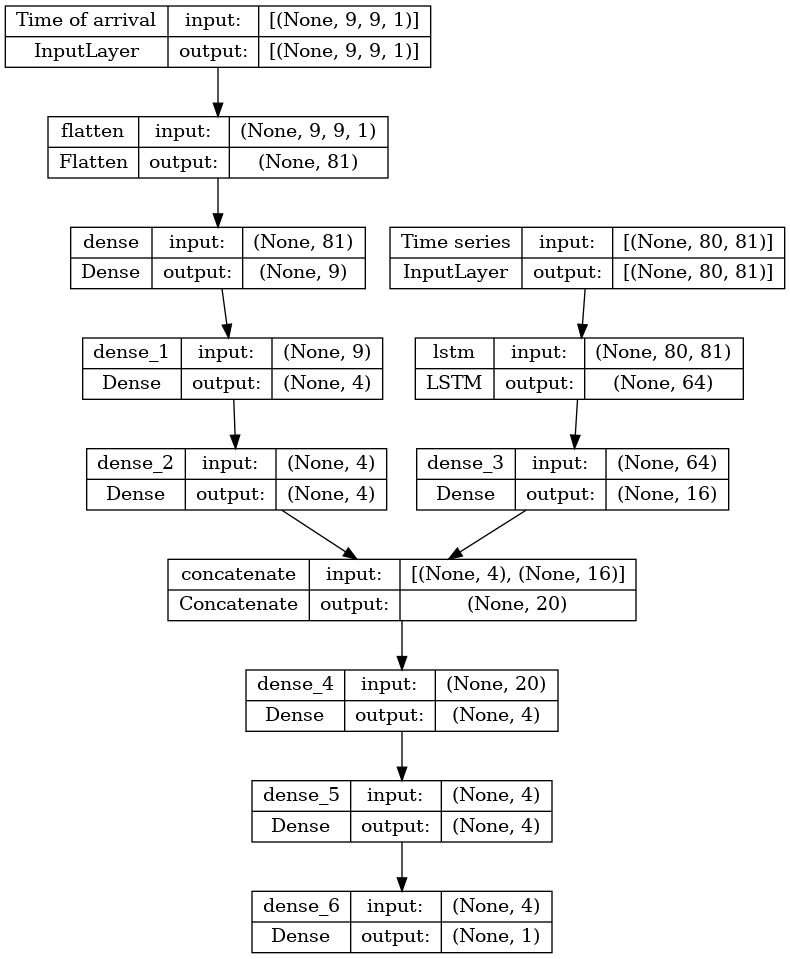
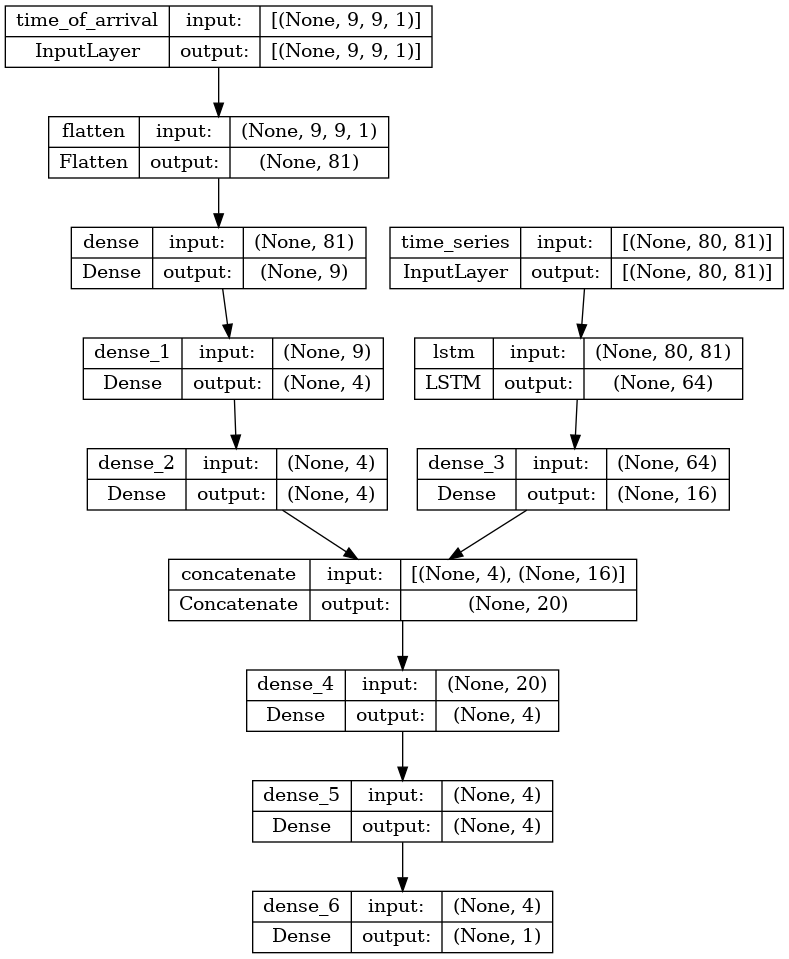
Functioning 5% lstm+encoder

diff --git a/cloudatlas/lstm_encoder.py b/cloudatlas/lstm_encoder.py
@@ -17,7 +17,7 @@ from rich.progress import track
 from rich import print
 
 # Time of arrival branch
-input_toa = Input(shape=(9, 9, 1), name="Time of arrival")
+input_toa = Input(shape=(9, 9, 1), name="time_of_arrival")
 flat = Flatten()(input_toa)
 enc = Dense(9, activation="relu")(flat)  
 enc = Dense(4, activation="relu")(enc)
@@ -25,7 +25,7 @@ enc = Dense(4, activation="relu")(enc)
 encoder = Model(inputs=input_toa, outputs=enc)
 
 # Time series branch
-input_ts = Input(shape=(80,81), name="Time series" )
+input_ts = Input(shape=(80,81), name="time_series" )
 lstm = LSTM(64)(input_ts)
 dense = Dense(16, activation='relu')(lstm)
 long_short_term_memory = Model(inputs=input_ts, outputs=dense)
